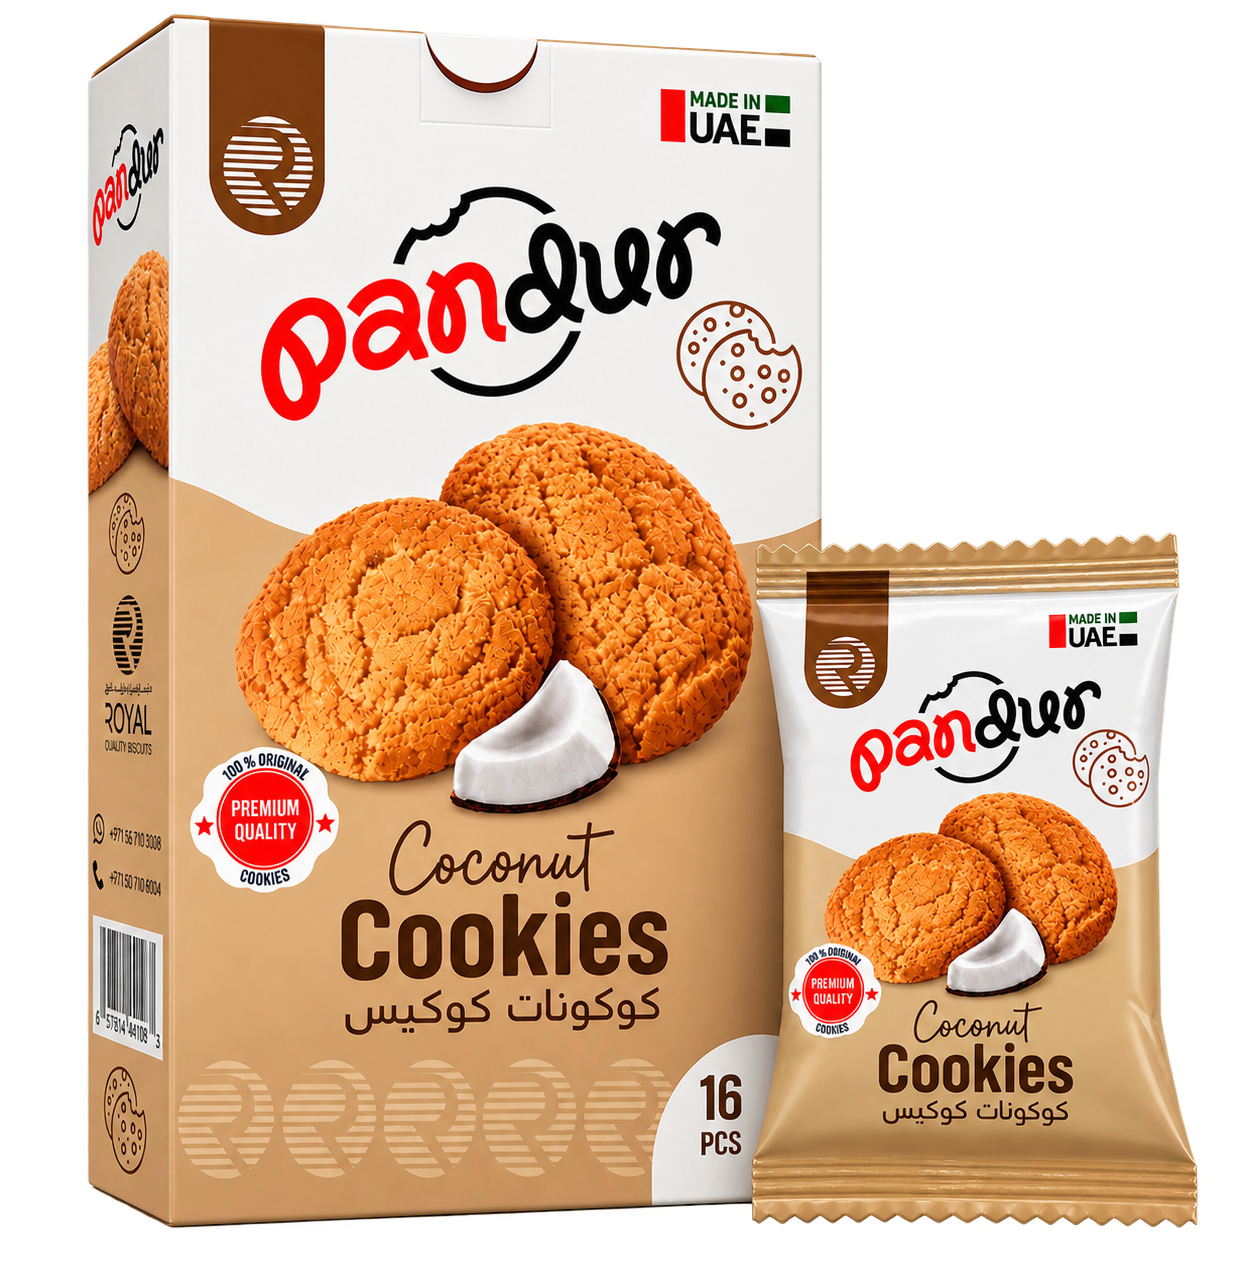
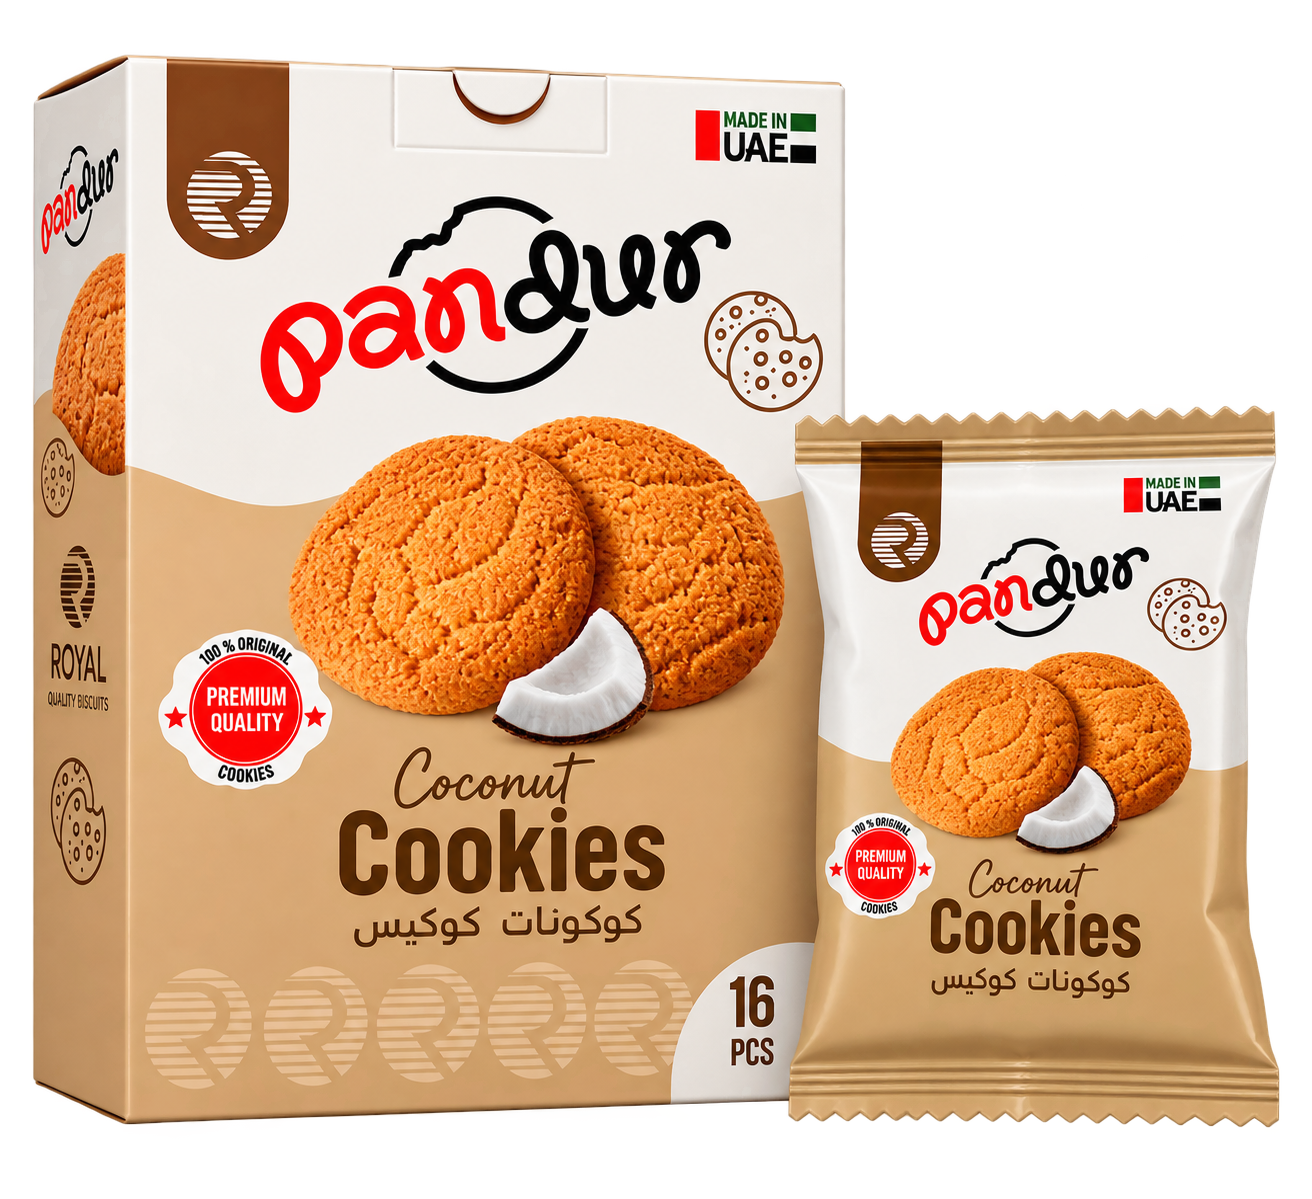
fix(assets): update coconut pack image to final transparent version

diff --git a/src/lib/showcase.ts b/src/lib/showcase.ts
@@ -188,8 +188,8 @@ export const SCENES: ShowcaseScene[] = [
     shot: { src: "/products/flavour-coconut.png", width: 480, height: 334 },
     pack: {
       src: "/products/hero-coconut-box-sachet.png",
-      width: 1242,
-      height: 1266,
+      width: 1312,
+      height: 1199,
       alt: "Pandur Coconut Cookies — the 16-piece box beside a single sachet",
     },
     ground: "#F4E7D3",
